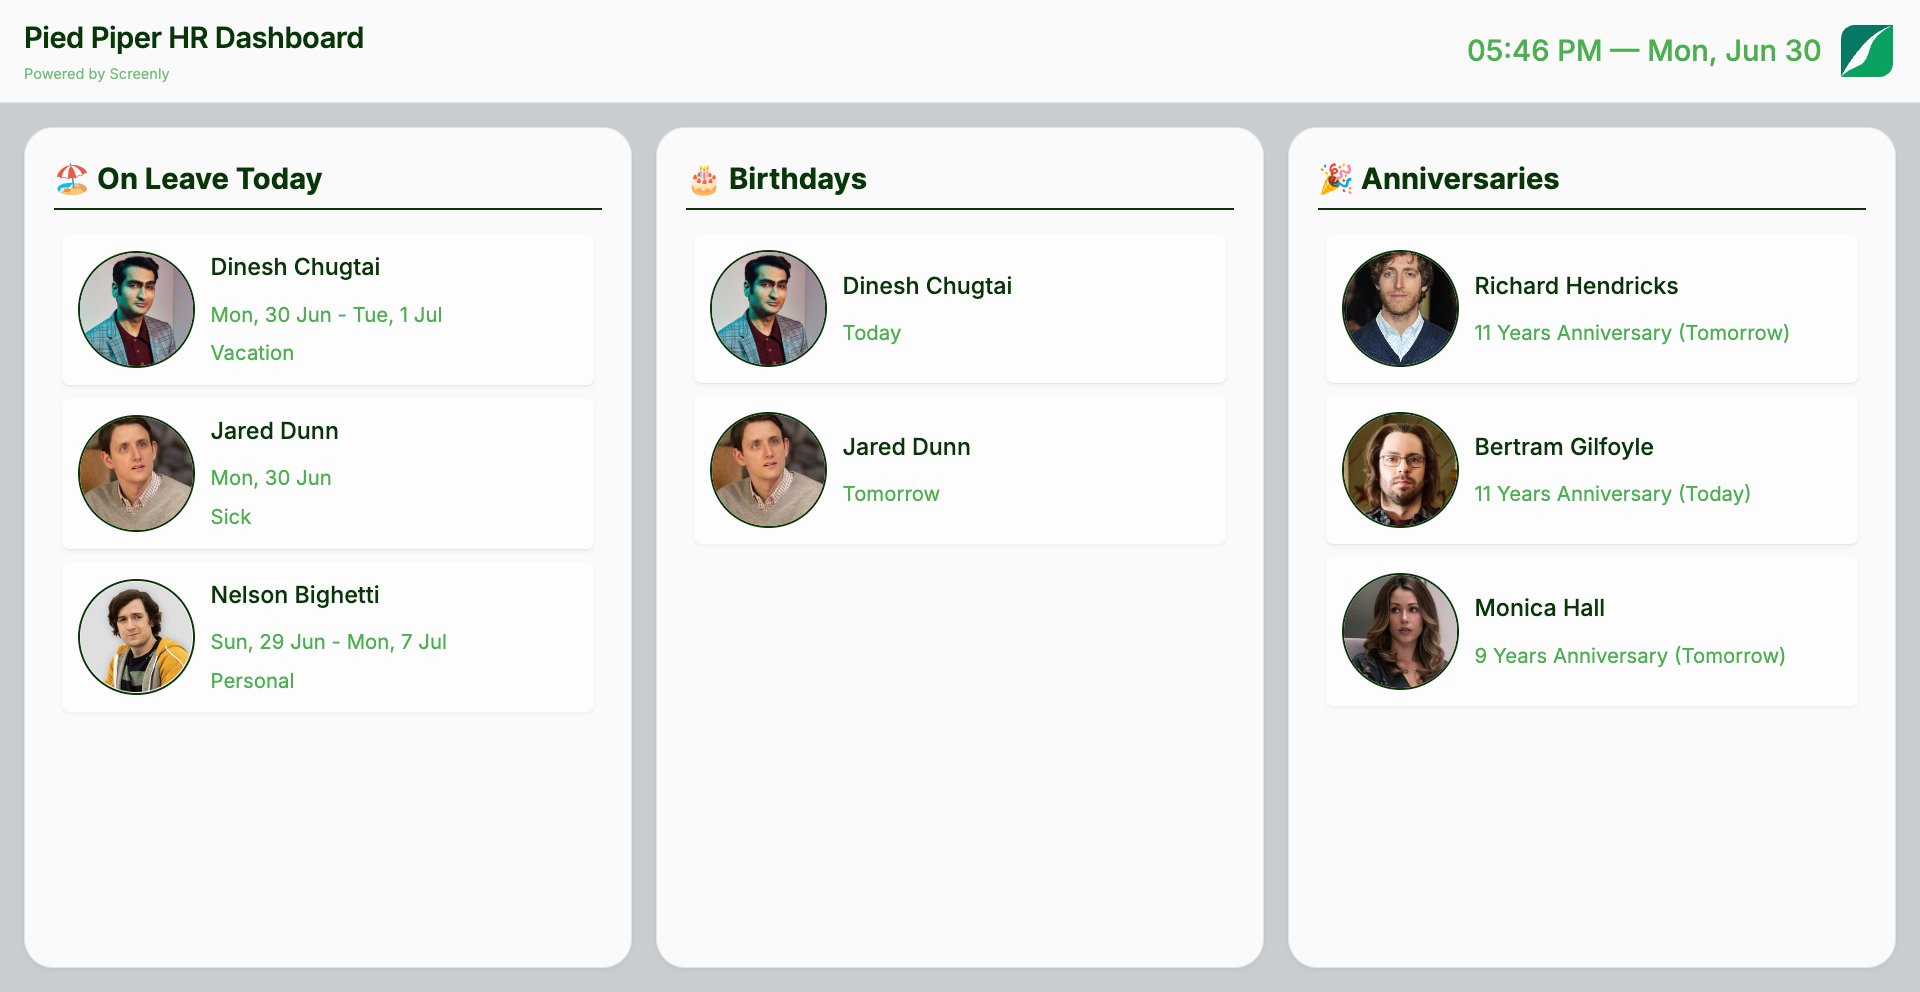
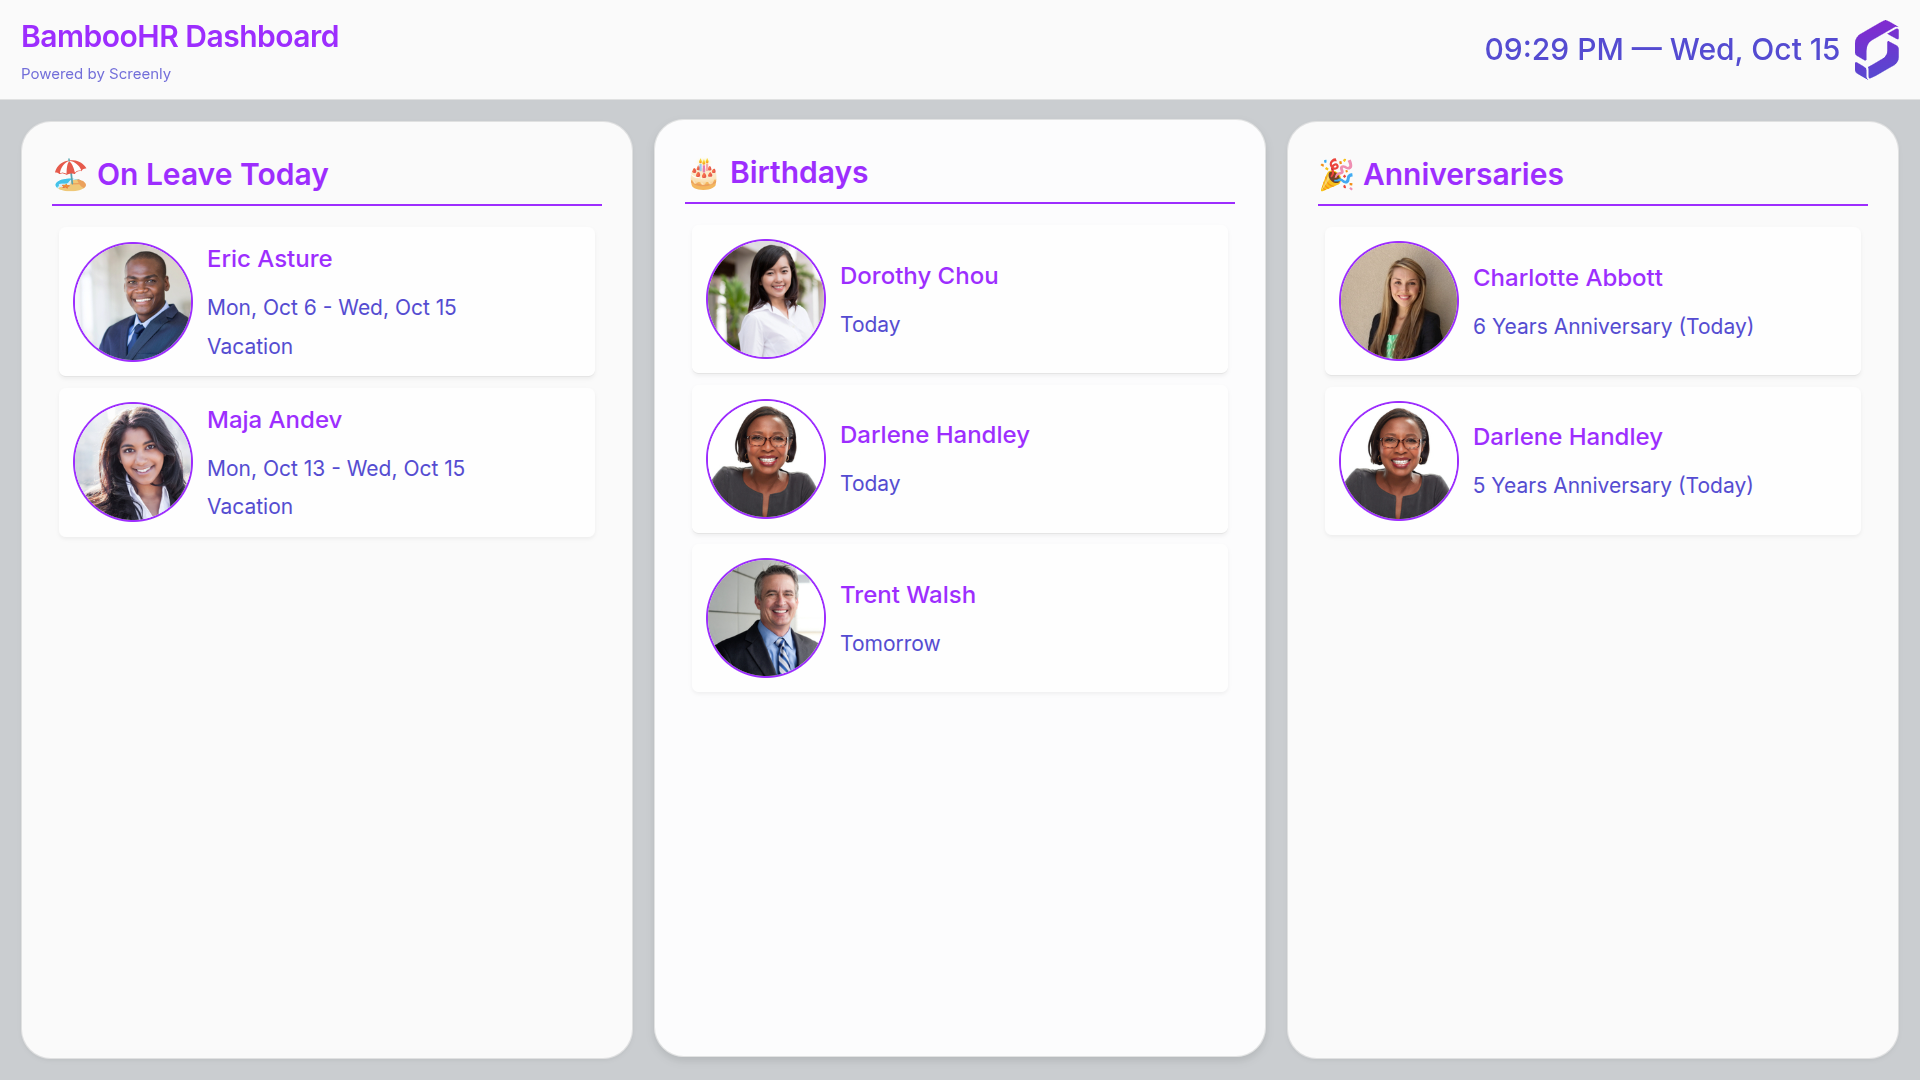
docs(bamboo-hr-app): add preview image to README
- Add preview image reference in README
- Update preview.png with current dashboard design

diff --git a/edge-apps/bamboo-hr-app/README.md b/edge-apps/bamboo-hr-app/README.md
@@ -2,6 +2,8 @@
 
 A digital signage dashboard that displays employee information from Bamboo HR, including birthdays, work anniversaries, and current leave status. Perfect for office displays and team spaces.
 
+![BambooHR App Preview](./static/images/preview.png)
+
 ## Features
 
 - Real-time employee information display
